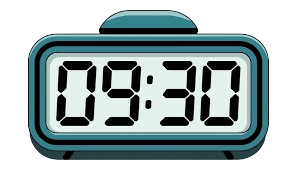
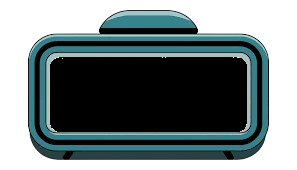
office new look

Changed region(s): [[0.1515, 0.3235, 0.8485, 0.7941]]

diff --git a/project.py b/project.py
@@ -20,7 +20,7 @@ def main():
     win = False
 
     #Timer
-    timer = timer_module.Timer(screen,100,200,"images/clock.png",100,50,72000)
+    timer = timer_module.Timer(screen,150,400,"images/clock.png",100,50,72000)
 
     #Camera System
     camera_sys = camera_system_module.Camera_System(screen,False)
@@ -36,10 +36,10 @@ def main():
 
     #Buttons
     aiman_button = button_module.Buttons(screen,50,450,"images/aiman_alarm_button.png")
-    aiman_button_activated = (255,0,0)
-    
+    aiman_button_activated = (255,0,0)    
     camera_button_office = button_module.Buttons(screen,200,550,"images/camera_button_up.png.png")
     carp_button = button_module.Buttons(screen,300,450, "images/carp_recall_button.png")
+    carp_button_activated = (255,0,0)
 
     #Doorway images
     carp_door = pygame.image.load("images/carp/carp_door.png")
@@ -84,7 +84,10 @@ def main():
                 if camera_sys.camera_on == False:
                     if aiman_button.rect.collidepoint(mouse_pos):
                         if event.type == pygame.MOUSEBUTTONDOWN and camera_sys.aiman.aimen_awake == False:
+                            aiman_button_activated = (0,255,0)
                             camera_sys.aiman.aimen_button_pushed()
+                        else:
+                            aiman_button_activated = (255,0,0)
                     if camera_button_office.rect.collidepoint(mouse_pos):
                         if event.type == pygame.MOUSEBUTTONDOWN:
                             camera_up = pygame.mixer.Sound('sounds/camera_up.wav')
@@ -93,7 +96,10 @@ def main():
                             camera_sys.camera_on = True
                     if carp_button.rect.collidepoint(mouse_pos):
                         if event.type == pygame.MOUSEBUTTONDOWN:
+                            carp_button_activated = (0,255,0)
                             camera_sys.carp.carp_button_pushed()
+                        else:
+                            carp_button_activated = (255,0,0)
 
         if run:            
             #Background
@@ -142,6 +148,8 @@ def main():
                 office_right.update()
                 if office_main.here:
                     office_main.draw()
+                    pygame.draw.rect(screen,aiman_button_activated,(50,450,40,40))
+                    pygame.draw.rect(screen,carp_button_activated,(300,450,40,40))
                     aiman_button.draw(40,40)
                     carp_button.draw(40,40)
                     timer.draw()

diff --git a/timer_module.py b/timer_module.py
@@ -11,7 +11,7 @@ class Timer:
         self.x = x
         self.y = y
         self.time_length = 720000
-        self.timer_font = pygame.font.SysFont("Courier new",20)
+        self.timer_font = pygame.font.SysFont("Courier new",20,True)
         self.timer_text = ""
         self.win_condition = False
 
@@ -36,5 +36,5 @@ class Timer:
             hour = 5
         else:
             self.win_condition = True
-        self.timer_text = self.timer_font.render(f"{hour:02}:00",False,(255,0,0))
-        self.screen.blit(self.timer_text,(self.x,self.y))
+        self.timer_text = self.timer_font.render(f"{hour:02}:00",False,(255,255,255))
+        self.screen.blit(self.timer_text,(self.x+20,self.y+18))